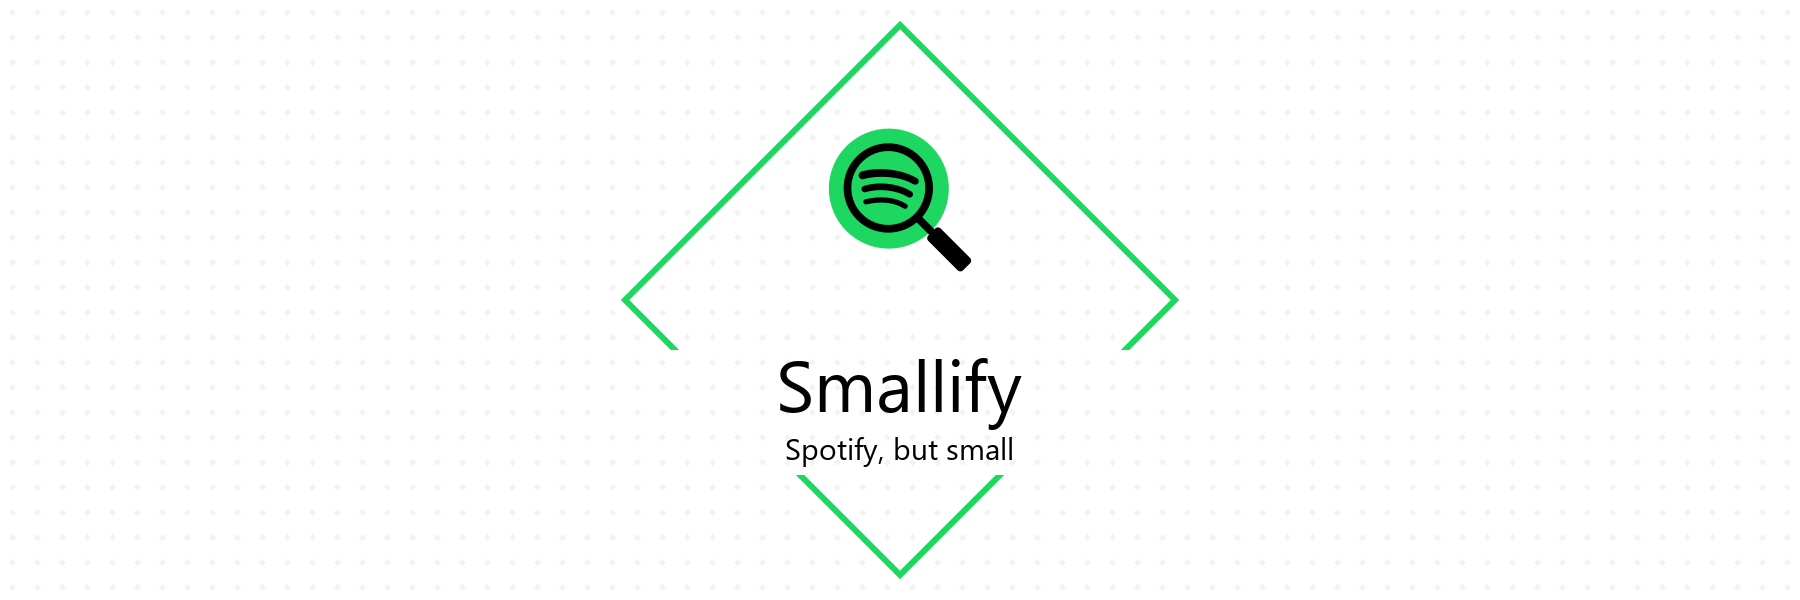
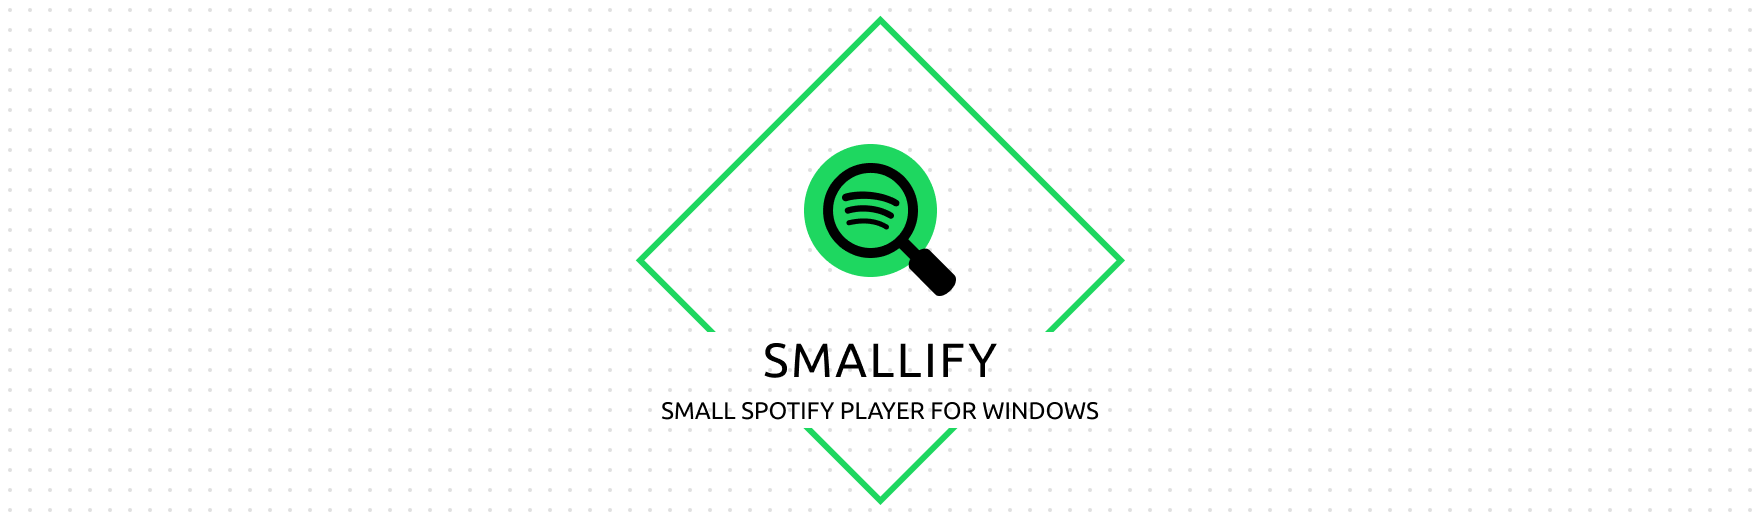
Docs (#24)
* Updated project title

* Updated screenshot

* Updated README

* Updated screenshot

* Updated project title

* Updated screenshot

* Updated README

* Updated README

* Updated screenshot

diff --git a/README.md b/README.md
@@ -1,16 +1,16 @@
-![Smallify](./docs/.assets/project-title.png)
+# Smallify
 
-[![Build Status](https://nick-smirnoff.visualstudio.com/smallify/_apis/build/status/build/smallify-CI?branchName=master)](https://nick-smirnoff.visualstudio.com/smallify/_build/latest?definitionId=13?branchName=master)
-
----
+[![Build Status](https://dev.azure.com/nick-smirnoff/smallify/_apis/build/status/hypzeh.smallify?branchName=master)](https://dev.azure.com/nick-smirnoff/smallify/_build/latest?definitionId=20&branchName=master)
 
 _Smallify is a WPF application built with .NET Core 3, aiming to provide a simple and minimalistic Spotify experience._
 
-![Smallify Screenshot](./docs/.assets/smallify-screenshot.png)
+![Smallify](./docs/.assets/project-title.png)
+
+![Screenshot](./docs/.assets/smallify-screenshot.png)
 
 ## Installation
 
-Download the latest [Smallify release](https://github.com/hypzeh/smallify/releases/latest).
+Smallify is packaged as a single `.exe` with all its dependencies - [Download latest release](https://github.com/hypzeh/smallify/releases/latest).
 
 ## Usage
 
